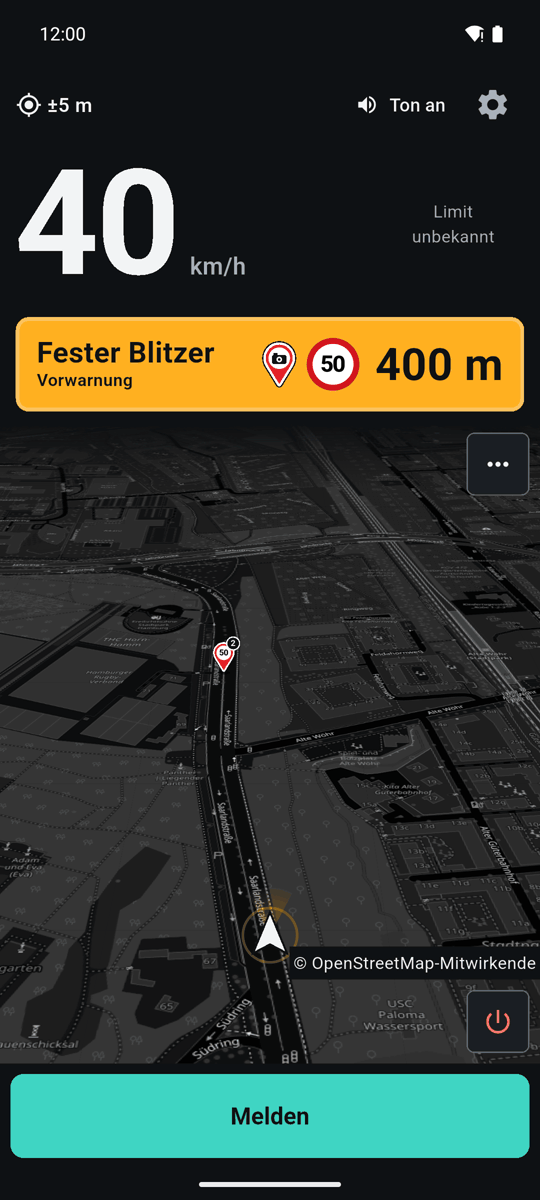
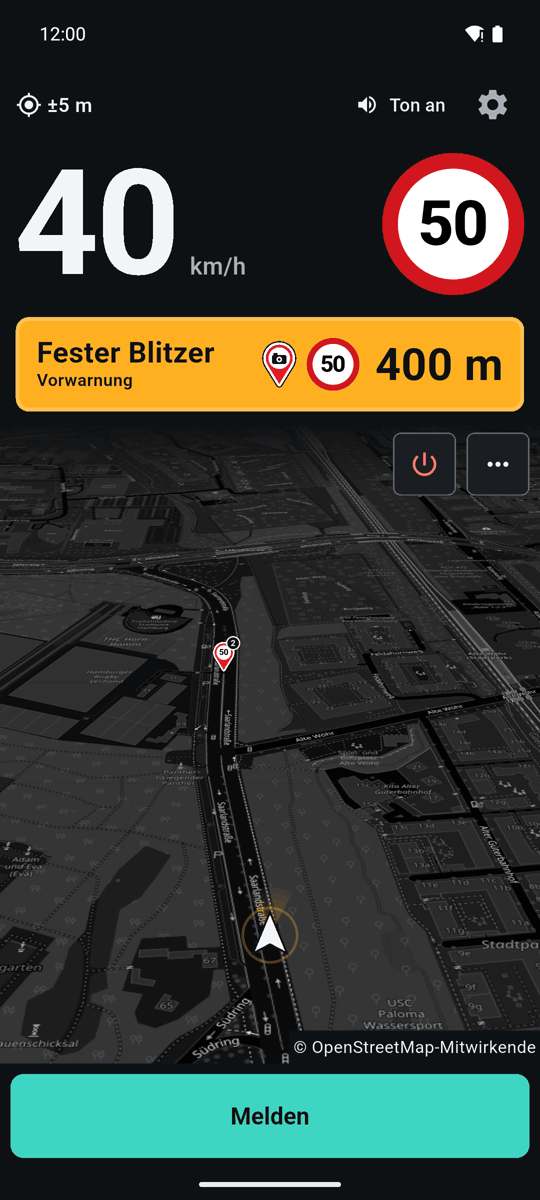
Stand von master e9b3389

diff --git a/lib/features/cockpit/map_attribution.dart b/lib/features/cockpit/map_attribution.dart
@@ -1,9 +1,8 @@
 import 'package:flutter/material.dart';
 
 import '../../app/theme.dart';
-import 'map_controls.dart';
 
-/// Ecke unten rechts: Quellenhinweis der Kartendaten, darunter der Aus-Knopf.
+/// Quellenhinweis der Kartendaten unten rechts.
 /// Die ODbL verlangt nur den OSM-Hinweis; ein Link darauf wäre über url_launcher möglich,
 /// das ist aber nicht in den Abhängigkeiten.
 class MapAttribution extends StatelessWidget {
@@ -13,30 +12,15 @@ class MapAttribution extends StatelessWidget {
   Widget build(BuildContext context) => SafeArea(
     child: Align(
       alignment: Alignment.bottomRight,
-      child: Column(
-        mainAxisSize: MainAxisSize.min,
-        crossAxisAlignment: CrossAxisAlignment.end,
-        children: [
-          ColoredBox(
-            color: SonarColors.bg,
-            child: Padding(
-              padding: const EdgeInsets.all(3),
-              child: Text(
-                '© OpenStreetMap-Mitwirkende',
-                style: SonarText.small.copyWith(color: SonarColors.text),
-              ),
-            ),
+      child: ColoredBox(
+        color: SonarColors.bg,
+        child: Padding(
+          padding: const EdgeInsets.all(3),
+          child: Text(
+            '© OpenStreetMap-Mitwirkende',
+            style: SonarText.small.copyWith(color: SonarColors.text),
           ),
-          const Padding(
-            padding: EdgeInsets.fromLTRB(
-              0,
-              SonarSpace.s,
-              SonarSpace.s,
-              SonarSpace.s,
-            ),
-            child: QuitButton(),
-          ),
-        ],
+        ),
       ),
     ),
   );

diff --git a/lib/features/cockpit/drive_map.dart b/lib/features/cockpit/drive_map.dart
@@ -749,7 +749,15 @@ class _DriveMapState extends ConsumerState<DriveMap>
               Positioned(
                 top: SonarSpace.s,
                 right: SonarSpace.s,
-                child: const MapMenuButton(),
+                // Aus-Knopf links neben „⋯“; der Hinweis oben links lässt dafür Platz.
+                child: const Row(
+                  mainAxisSize: MainAxisSize.min,
+                  children: [
+                    QuitButton(),
+                    SizedBox(width: SonarSpace.s),
+                    MapMenuButton(),
+                  ],
+                ),
               ),
               if (_ready)
                 Positioned(
@@ -770,7 +778,7 @@ class _DriveMapState extends ConsumerState<DriveMap>
                 Positioned(
                   top: SonarSpace.s,
                   left: SonarSpace.s,
-                  // Platz für den Schalter rechts daneben.
+                  // Platz für Aus-Knopf und „⋯“ rechts daneben (2 × 48 + Abstände).
                   width: (box.maxWidth - 160).clamp(140.0, 320.0),
                   child: Align(
                     alignment: Alignment.topLeft,

diff --git a/test/cockpit/map_menu_test.dart b/test/cockpit/map_menu_test.dart
@@ -102,16 +102,15 @@ void main() {
     expect(platformCalls, contains('SystemNavigator.pop'));
   });
 
-  testWidgets('Aus-Knopf unten rechts unter dem OSM-Hinweis, nicht im Menü', (
-    tester,
-  ) async {
+  testWidgets('Aus-Knopf links neben „⋯“, nicht im Menü', (tester) async {
     await pumpMap(tester);
     final quit = tester.getRect(find.byTooltip('Sonarb beenden'));
-    final osm = tester.getRect(find.text('© OpenStreetMap-Mitwirkende'));
-    expect(quit.top, greaterThanOrEqualTo(osm.bottom));
-    expect(quit.right, greaterThan(360 - 60));
-    expect(quit.bottom, greaterThan(640 - 70));
+    final menu = tester.getRect(find.byTooltip('Kartenoptionen'));
+    expect(quit.right, lessThanOrEqualTo(menu.left));
+    expect(menu.left - quit.right, lessThan(20));
+    expect((quit.center.dy - menu.center.dy).abs(), lessThan(1));
     expect(quit.width, greaterThanOrEqualTo(48));
+    expect(quit.height, greaterThanOrEqualTo(48));
     await tester.tap(find.byTooltip('Kartenoptionen'));
     await tester.pump();
     await tester.pump(const Duration(milliseconds: 400));

diff --git a/lib/features/cockpit/map_controls.dart b/lib/features/cockpit/map_controls.dart
@@ -21,8 +21,7 @@ Future<void> quitApp(WidgetRef ref) async {
   await SystemNavigator.pop();
 }
 
-/// Aus-Knopf unten rechts unter dem OSM-Hinweis: beendet Sonarb mit einem Tipp.
-/// Unten rechts, weil oben links die Hinweise der Karte stehen.
+/// Aus-Knopf oben rechts links neben „⋯“: beendet Sonarb mit einem Tipp.
 class QuitButton extends ConsumerWidget {
   const QuitButton({super.key});
 

diff --git a/README.md b/README.md
@@ -81,7 +81,7 @@ sparsam, damit der Akku hält. Mehr dazu in [docs/ARCHITEKTUR.md](docs/ARCHITEKT
 
 <table>
   <tr>
-    <td><img src="docs/media/ansage.png" width="260" alt="Cockpit während der Fahrt mit 40 km/h: oben die gelbe Ansage „Fester Blitzer, Vorwarnung“ mit Tempo 50 und 400 m Abstand, darunter die geneigte Karte mit dem Blitzer auf der Strecke."></td>
+    <td><img src="docs/media/ansage.png" width="260" alt="Cockpit während der Fahrt mit 40 km/h und Tempolimit 50, darunter die gelbe Ansage „Fester Blitzer, Vorwarnung“ mit 400 m Abstand und die geneigte Karte mit dem Blitzer auf der Strecke."></td>
     <td><img src="docs/media/melden.png" width="260" alt="Dieselbe Fahrt 260 m vor dem Blitzer, darüber das Blatt „Was melden?“ mit den Knöpfen Mobiler Blitzer, Abstandsmessung, Baustelle und Gefahrenstelle."></td>
     <td><img src="docs/media/start.png" width="260" alt="Startbildschirm „Vor der ersten Fahrt“: wofür die App den Standort braucht, Betrieb bei ausgeschaltetem Bildschirm, Herkunft der Kartendaten und der Hinweis auf § 23 Abs. 1c StVO, darunter der Knopf „Weiter zur Standortfreigabe“."></td>
   </tr>
@@ -119,7 +119,7 @@ Signaltöne.
 | Wann angesagt wird | Einstellungen → Warnung → „Ansage ab“ (Standard 600 m, bei hohem Tempo früher) |
 | Sätze einzeln abschalten | Einstellungen → „Sprachansagen“ |
 | Karte ausrichten | Menü „⋯“ auf der Karte: Norden oder Fahrtrichtung oben, flach oder geneigt |
-| Sonarb ganz beenden | Aus-Knopf unten rechts auf der Karte, oder „Beenden“ in der Benachrichtigung |
+| Sonarb ganz beenden | Aus-Knopf oben rechts auf der Karte, links neben „⋯“, oder „Beenden“ in der Benachrichtigung |
 
 ## Datenschutz und deine Daten
 
